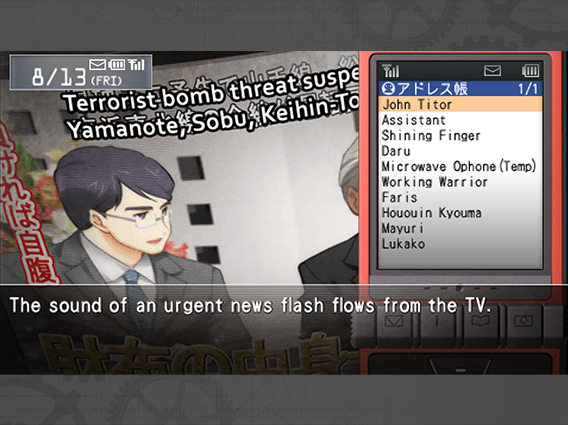
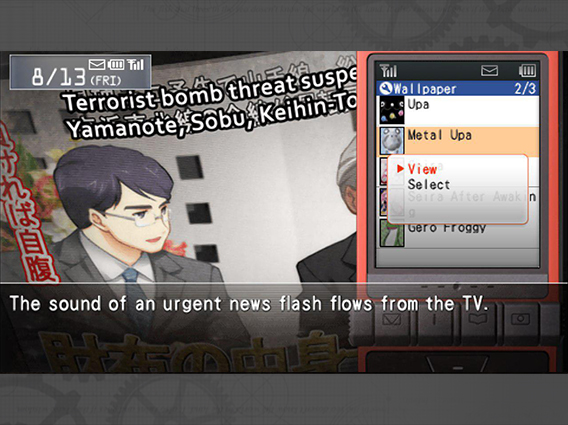
New release of S;G patch

diff --git a/0_SGPSPE/index.html b/0_SGPSPE/index.html
@@ -10,7 +10,7 @@
    <p><i>I am not going to lie, this worldline is decent enough. But this patch is going to make it better. El Psy Congroo.</i><br><br>Steins;Gate was released for PSP in 2011. This version of the game did not get much attention in the West, since it was available only in Japanese. Until now. I present you the Steins;Gate PSP English Patch. Combined from bits and pieces of other translations for other platforms, it brings the English Steins;Gate experience to the PSP.</p>
 
    <hr>
-   <p class="bold">✔ Current version (v0.9)</p>
+   <p class="bold">✔ Current version (v1.0.0)</p>
    <p>
    <ul>
       <li>Translated story scripts</li>
@@ -18,25 +18,27 @@
       <li>Translated phonebook</li>
       <li>Translated phone messages/emails, backgrounds and songs</li>
       <li>Translated backgrounds</li>
-      <li>Translated cutscenes*</li>
-      *This doesn't apply to <span class="codeFragment">OPEN3.PMF</span>, since there is no available replacement from the PC version of the game.
+      <li>Translated cutscenes</li>
+      <li>Translated phone UI</li>
+      <li>Translated UI elements across all menus</li>
+      <li>Translated contents of all menus (Settings, Clear screen, Load, Save, etc)</li>
+      <li>Translated system messages</li>
+      <li>Translated PSP HOME menu</li>
+      <li>X and O buttons were switched to resemble traditional Western control scheme on PSP</li>
    </ul>
-   <br>(pretend that each item on the list has "(where applicable)" after it)
    </p>
 
    <hr>
-   <p class="bold">🚩 Roadmap</p>
+   <p class="bold">📝 Bugfixes and smaller changes</p>
    <p>
    <ul>
       <b>v1.0.0:</b>
-      <li>Translate UI elements</li>
-      <li>Translate phone menus</li>
-      <li>Change PSPMENU button UI language</li>
-      <li>Fix bugs and inconsistencies</li>
-      <li>Find a way to translate menu textures (Clear list, Movie/CG gallery, etc)</li>
-      <br>
-      <b>v1.0.x:</b>
-      <li>Fix bugs and inconsistencies</li>
+      <li>Replaced ICON0 and PIC1</li>
+      <li>Dropped support of xDelta</li>
+      <li>Added a logo with credits</li>
+      <li>Fixed visual glitches in Tips</li>
+      <li>Fixed some typos and inconsistencies in game scripts</li>
+      <li>Fixed text overflow</li>
    </ul>
    </p>
 
@@ -45,7 +47,7 @@
    <p>I <i>honestly and legally purchased***</i> the copy of the Steins;Gate from Cdromance. Here are the MD5 hashes I ended up with:
    <ul>
       <li>Original ISO: <span class="codeFragment">5ed76b04eac58b0e459bed06108eed74</span></li>
-      <li>Patched ISO v0.9: <span class="codeFragment">e633145a71669601aac23407df77fec0</span></li>
+      <li>Patched ISO v1.0.0: <span class="codeFragment">482be2ba9ae33f04f5c1d4c7bf693318</span></li>
    </ul><br>
    If you don't have the same hashes before and/or after, then it most likely won't work for you.<br><br>
    <font class="smallerFont">***Oh come on, where do you expect me to buy a game that is <a href="/0_SGPSPE/look_there_is_nothing_i_could_possibly_do.png" target="_blank">not being sold anymore</a>?</font>
@@ -53,25 +55,18 @@
 
    <hr>
    <p class="bold">🔨 Patching options</p>
-   <b>.exe</b> (recommended), created with <a href="https://www.tibed.net/vpatch/" target="_blank">VPatch</a>.
+   <b>.exe</b> created with <a href="https://www.tibed.net/vpatch/" target="_blank">VPatch</a>.
    <ol>
       <li>Run Windows command prompt.</li>
-      <li>Navigate using <span class="codeFragment">cd</span> to the folder with the <span class="codeFragment">Steins_Gate_PSP_English_Patch_vX.X.exe</span> inside it.</li>
-      <li>Run <span class="codeFragment">Steins_Gate_PSP_English_Patch_vX.X.exe &lt;path_to_original_file&gt; &lt;patched_game.iso&gt;</span>.</li>
-      <li>The program will immediately throw you back into the command prompt. This is normal, it does all the work in the background. You can monitor its progress via Task Manager. Once it is done patching, the process will automatically terminate, leaving you with the ~1.2GB <span class="codeFragment">&lt;patched_game.iso&gt;</span> file.</li>
-   </ol>
-   <br>
-   <b>.xdelta</b> (will be dropped in the future, since it has unbelievably large patch file size).
-   <ol>
-      <li>Get and run <a href="https://www.romhacking.net/utilities/704/" target="_blank">Delta Patcher</a>.</li>
-      <li>Select the original ISO and the <span class="codeFragment">Steins_Gate_PSP_English_Patch_vX.X.xdelta</span> file.</li>
-      <li>Apply the patch.</li>
+      <li>Navigate using <span class="codeFragment">cd</span> to the folder with the <span class="codeFragment">Steins_Gate_PSP_English_Patch_vXXX.exe</span> inside it.</li>
+      <li>Run <span class="codeFragment">Steins_Gate_PSP_English_Patch_vXXX.exe &lt;original_iso&gt; &lt;patched_iso&gt;</span>.</li>
+      <li>The program will immediately throw you back into the command prompt. This is normal, it does all the work in the background. You can monitor its progress via Task Manager. Once it is done patching, the process will automatically terminate, leaving you with the ~1.2GB <span class="codeFragment">&lt;patched_iso&gt;</span> file.</li>
    </ol>
    </p>
 
    <hr>
-   <p class="bold">❌ Bugs/Typos/Crashes</p>
-   <p>There are plenty of each. That is exactly why there will be future patches with small bugfixes. You can contact me by using the means explained in the "<a href="/#contact" target="_blank">Contact</a>" section. Or, specifically for this patch, the other way is to make a <a href="https://github.com/HaselLoyance/steins-gate-psp-patch/issues" target="_blank">new issue</a>.<br><br>I kindly ask you to provide the conditions in which unexpected behavior occurs. Screenshots and references to story text are very welcome. Save data would be even better.
+   <p class="bold">❌ Bugs/Typos</p>
+   <p>There are plenty of each. That is exactly why there will be future patches with small bugfixes. You can contact me by using the means explained in the "<a href="/#contact" target="_blank">Contact</a>" section. Or, specifically for this patch, the other way is to make a <a href="https://github.com/HaselLoyance/steins-gate-psp-patch/issues" target="_blank">new issue</a>.<br><br>I kindly ask you to provide the conditions in which unexpected behavior occurs. Screenshots and references to story text are very welcome. Save data would be even better.<br><br>It's for the best if you report even the smallest things. Typos/text overflow/bugs, I try to pay attention to every detail, but it's hard to do so with this massive project.
    </p>
 
    <hr>
@@ -87,6 +82,7 @@
       <li>ant08, the source of the English translation. Unfortunately, I did not use their latest available version, since the links to all of them are dead. But hey, it still turned out very good. The <a href="http://tsuuun.blogspot.com/2012/01/happy-new-year-everyone-and-yeah-its.html" target="_blank">translation files</a> I used and their <a href="http://tsuuun.blogspot.com/" target="_blank">blog</a>.</li>
       <li>CommitteeOfZero, the source of the translated backgrounds, as well as translated/karaoke cutscenes. They have a thing on their <a href="https://github.com/CommitteeOfZero" target="_blank">GitHub</a> called <a href="https://github.com/CommitteeOfZero/sghd-patch" target="_blank">sghd-patch</a>, which is an improvement over the stock Steam translation of the PC version. Check out their <a href="http://sonome.dareno.me/" target="_blank">website</a> for more S;G-related projects.</li>
       <li>theryusui, was of a huge help to me with the <span class="codeFragment">.KLZ</span> compression/decompression. Practically they dug up their 5 year old version of the only decompressor in the entire world. Their <a href="https://theryusui.tumblr.com/" target="_blank">Tumblr</a> and <a href="https://www.romhacking.net/forum/index.php?action=profile;u=181" target="_blank">Romhacking</a> profile.</li>
+      <li>ilubandroid, provided sick ICON0 and PIC1. They literally look better than the ones in the original game. Their <a href="https://www.reddit.com/user/ilubandroid" target="_blank">Reddit</a>.
    </ul>
    </p>
 
@@ -104,7 +100,8 @@
    </p>-->
    <hr>
    <p class="bold">🖼 Screenshots</p>
-   <div class="gallery"><a href="/0_SGPSPE/logo.jpg" target="_blank"><img src="/0_SGPSPE/logo.jpg"></a><a href="/0_SGPSPE/pic1.jpg" target="_blank"><img src="/0_SGPSPE/pic1.jpg"></a><a href="/0_SGPSPE/pic2.jpg" target="_blank"><img src="/0_SGPSPE/pic2.jpg"></a><a href="/0_SGPSPE/pic3.jpg" target="_blank"><img src="/0_SGPSPE/pic3.jpg"></a><a href="/0_SGPSPE/pic4.jpg" target="_blank"><img src="/0_SGPSPE/pic4.jpg"></a><a href="/0_SGPSPE/pic5.jpg" target="_blank"><img src="/0_SGPSPE/pic5.jpg"></a><a href="/0_SGPSPE/pic6.jpg" target="_blank"><img src="/0_SGPSPE/pic6.jpg"></a></div>
+   <div class="gallery"><a href="/0_SGPSPE/logo.jpg" target="_blank"><img src="/0_SGPSPE/logo.jpg"></a><a href="/0_SGPSPE/pic1.jpg" target="_blank"><img src="/0_SGPSPE/pic1.jpg"></a><a href="/0_SGPSPE/pic2.jpg" target="_blank"><img src="/0_SGPSPE/pic2.jpg"></a><a href="/0_SGPSPE/pic3.jpg" target="_blank"><img src="/0_SGPSPE/pic3.jpg"></a><a href="/0_SGPSPE/pic4.jpg" target="_blank"><img src="/0_SGPSPE/pic4.jpg"></a><a href="/0_SGPSPE/pic5.jpg" target="_blank"><img src="/0_SGPSPE/pic5.jpg"></a><a href="/0_SGPSPE/pic6.jpg" target="_blank"><img src="/0_SGPSPE/pic6.jpg"></a><a href="/0_SGPSPE/pic7.jpg" target="_blank"><img src="/0_SGPSPE/pic7.jpg"></a><a href="/0_SGPSPE/pic8.jpg" target="_blank"><img src="/0_SGPSPE/pic8.jpg"></a>
+   </div>
 
    <br>
    <hr>
@@ -117,7 +114,7 @@
    <br>
    <hr>
    <p class="bold">☕ Maybe sponsor my coffee addiction?</p>
-   <p>If you find my work interesting, then please feel free to sponsor my <a href="https://buymeacoff.ee/rwly8PutT" target="_blank">coffee addiction</a> that is currently covered entirely by my ever-growing student loans.
+   <p>If you find my work interesting, then please feel free to sponsor my <a href="https://buymeacoff.ee/rwly8PutT" target="_blank">coffee</a> and <a href="https://www.ko-fi.com/haselloyance" target="_blank">ko-fi</a> addictions that are currently covered entirely by my ever-growing student loans.
    </p>
 
 </div>

diff --git a/0_contact/index.html b/0_contact/index.html
@@ -5,6 +5,6 @@
    <p>Here are some ways you can reach me:<br>E-mail, of course: <b><a href="mailto:haselloyance@gmail.com">haselloyance@gmail.com</a></b><br>Please, specify the subject of the mail. Ok? Thanks.</p>
    <p>You can write me on Telegram: <a href="https://t.me/HaselLoyance" target="_blank">@HaselLoyance</a><br>Tweet to me <a href="https://twitter.com/HaselLoyance" target="_blank">@HaselLoyance</a><br>
    Useless Instagram: <a href="https://www.instagram.com/haselloyance/" target="_blank">@HaselLoyance</a><br>Would be great if you checked out some of my other garbage on <a href="https://github.com/HaselLoyance" target="_blank">GitHub</a><br><br></p>
-   <p> Lately I've noticed that some people truly appreciate my work, and with their kind hearts they want to help me out just a little bit. Just like me, they understand that student loans are not going to pay themselves. If you find my work interesting, then please feel free to sponsor my <a href="https://buymeacoff.ee/rwly8PutT" target="_blank">coffee addiction</a> that is currently covered entirely by my ever-growing student loans.
+   <p> Lately I've noticed that some people truly appreciate my work, and with their kind hearts they want to help me out just a little bit. Just like me, they understand that student loans are not going to pay themselves. If you find my work interesting, then please feel free to sponsor my <a href="https://buymeacoff.ee/rwly8PutT" target="_blank">coffee</a> and <a href="https://www.ko-fi.com/haselloyance" target="_blank">ko-fi</a> addictions that are currently covered entirely by my ever-growing student loans.
    </p>
 </div>
